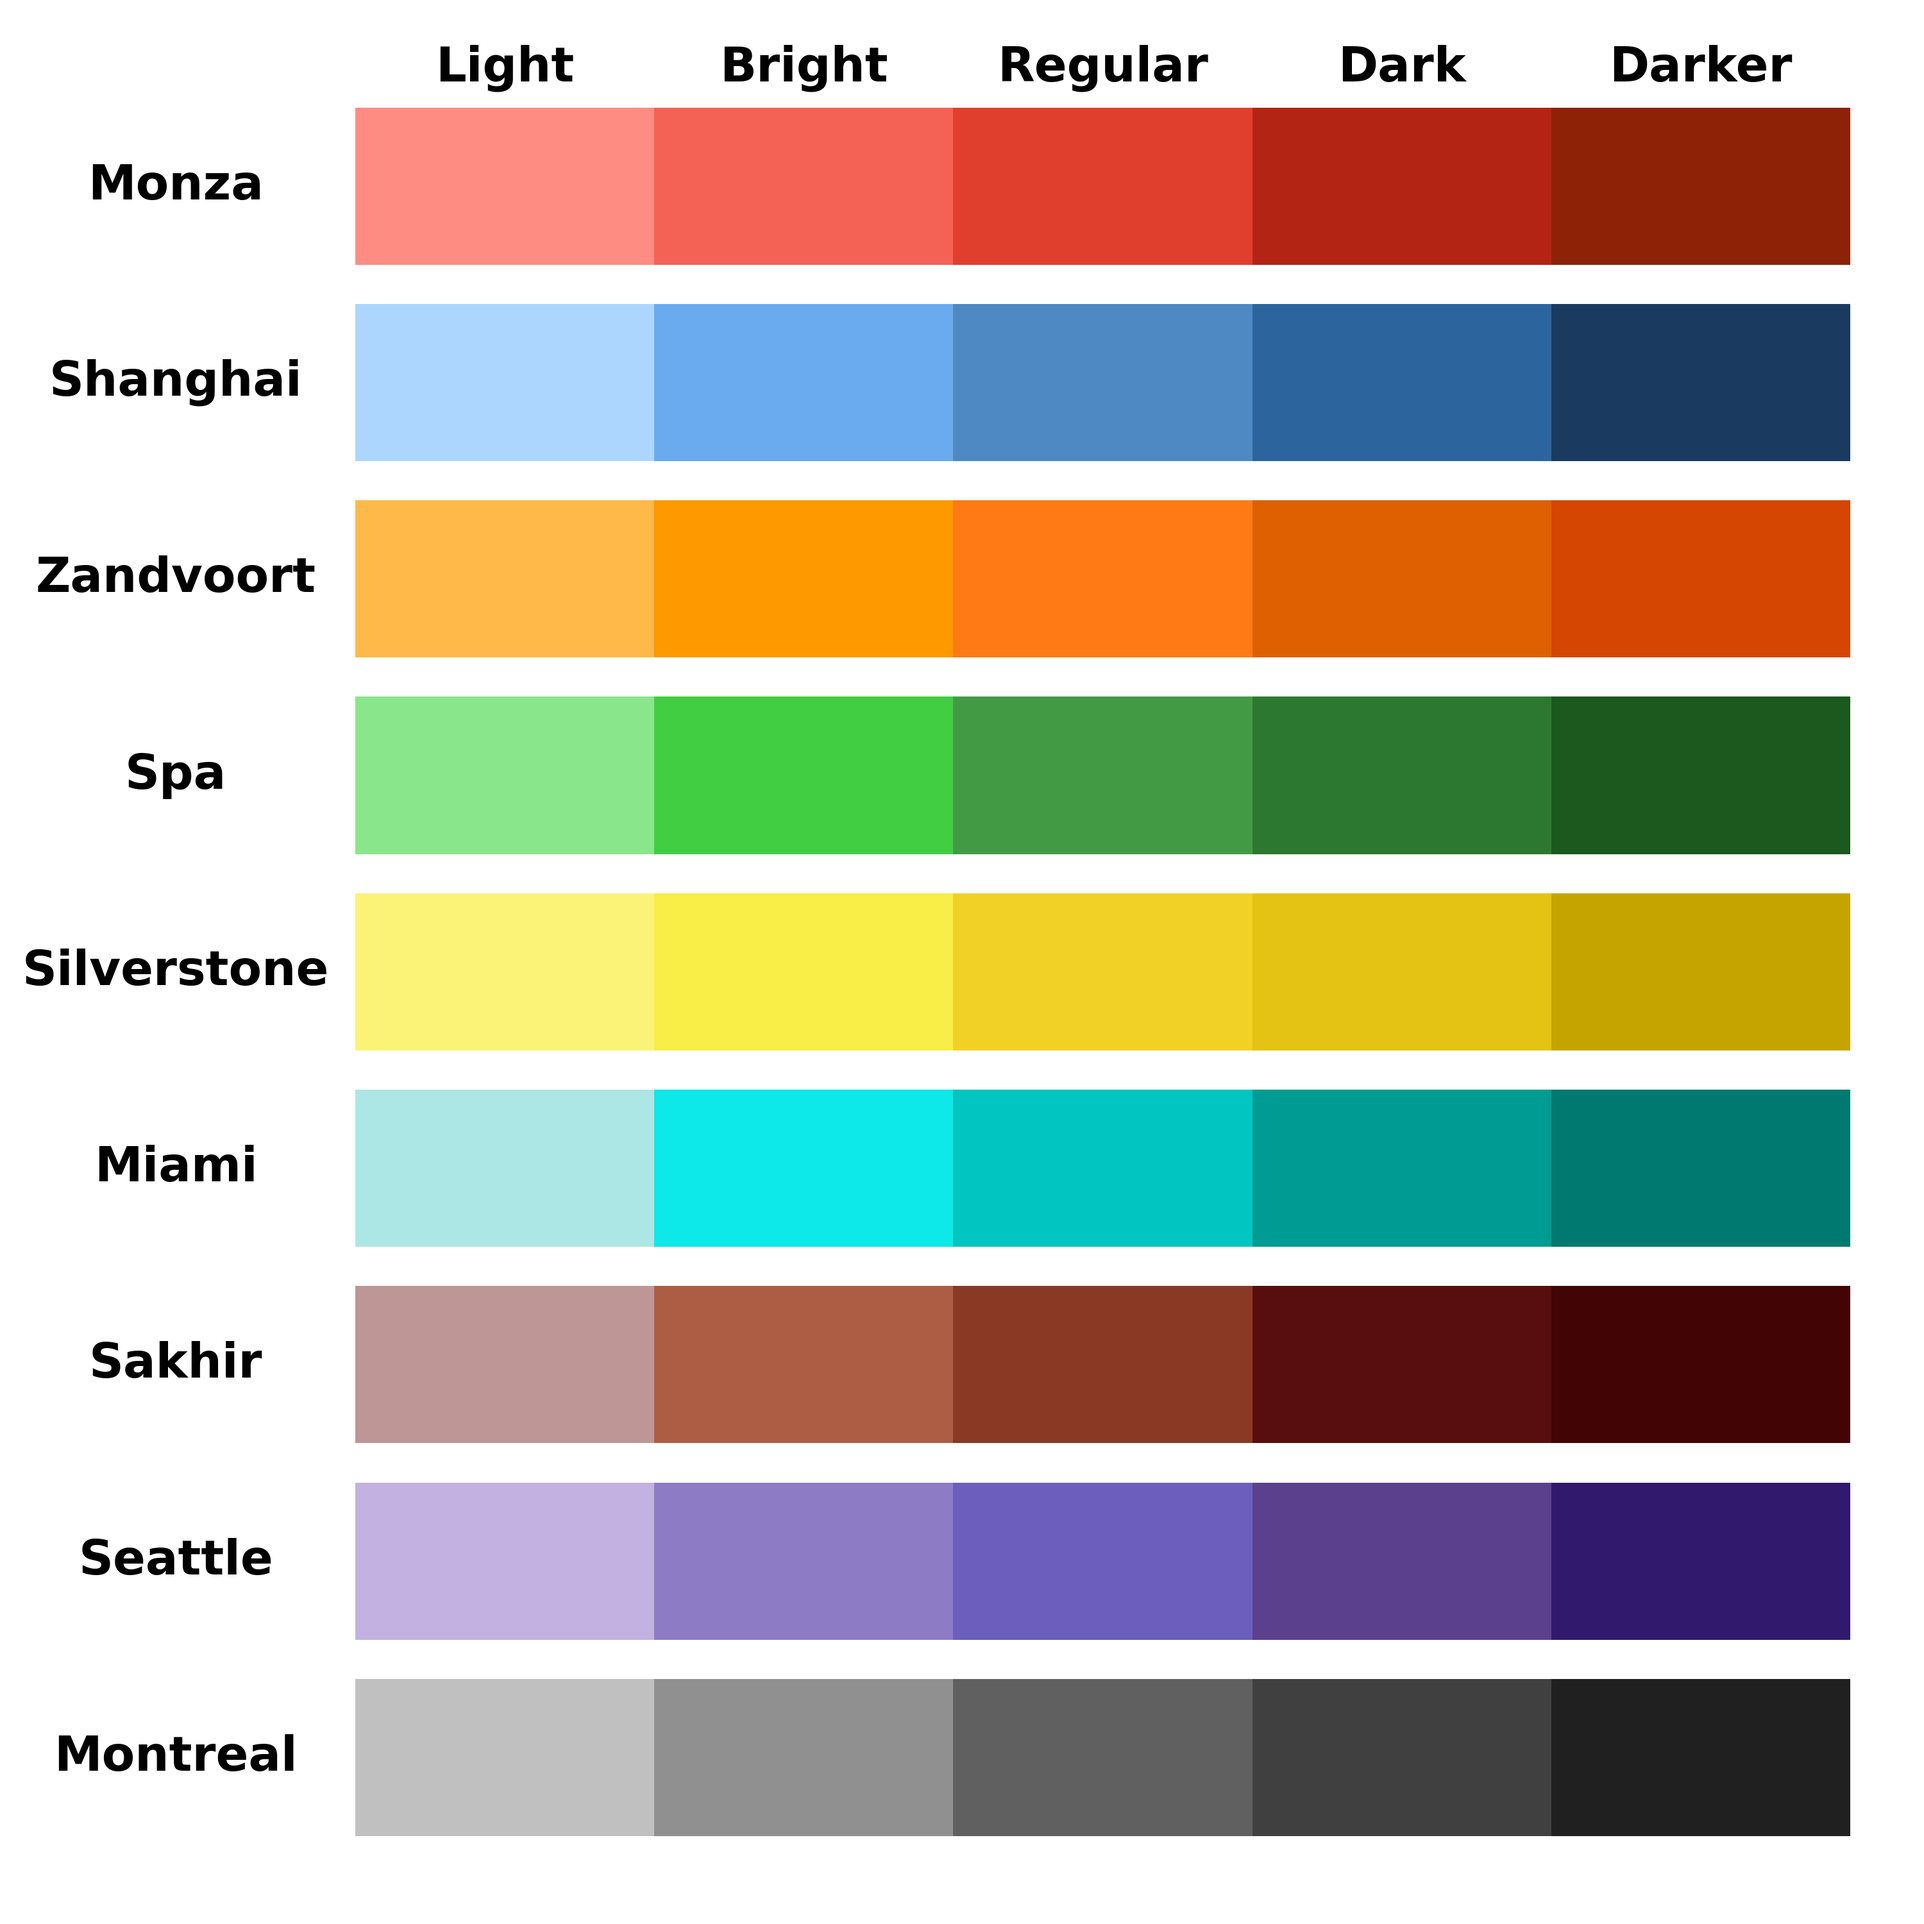
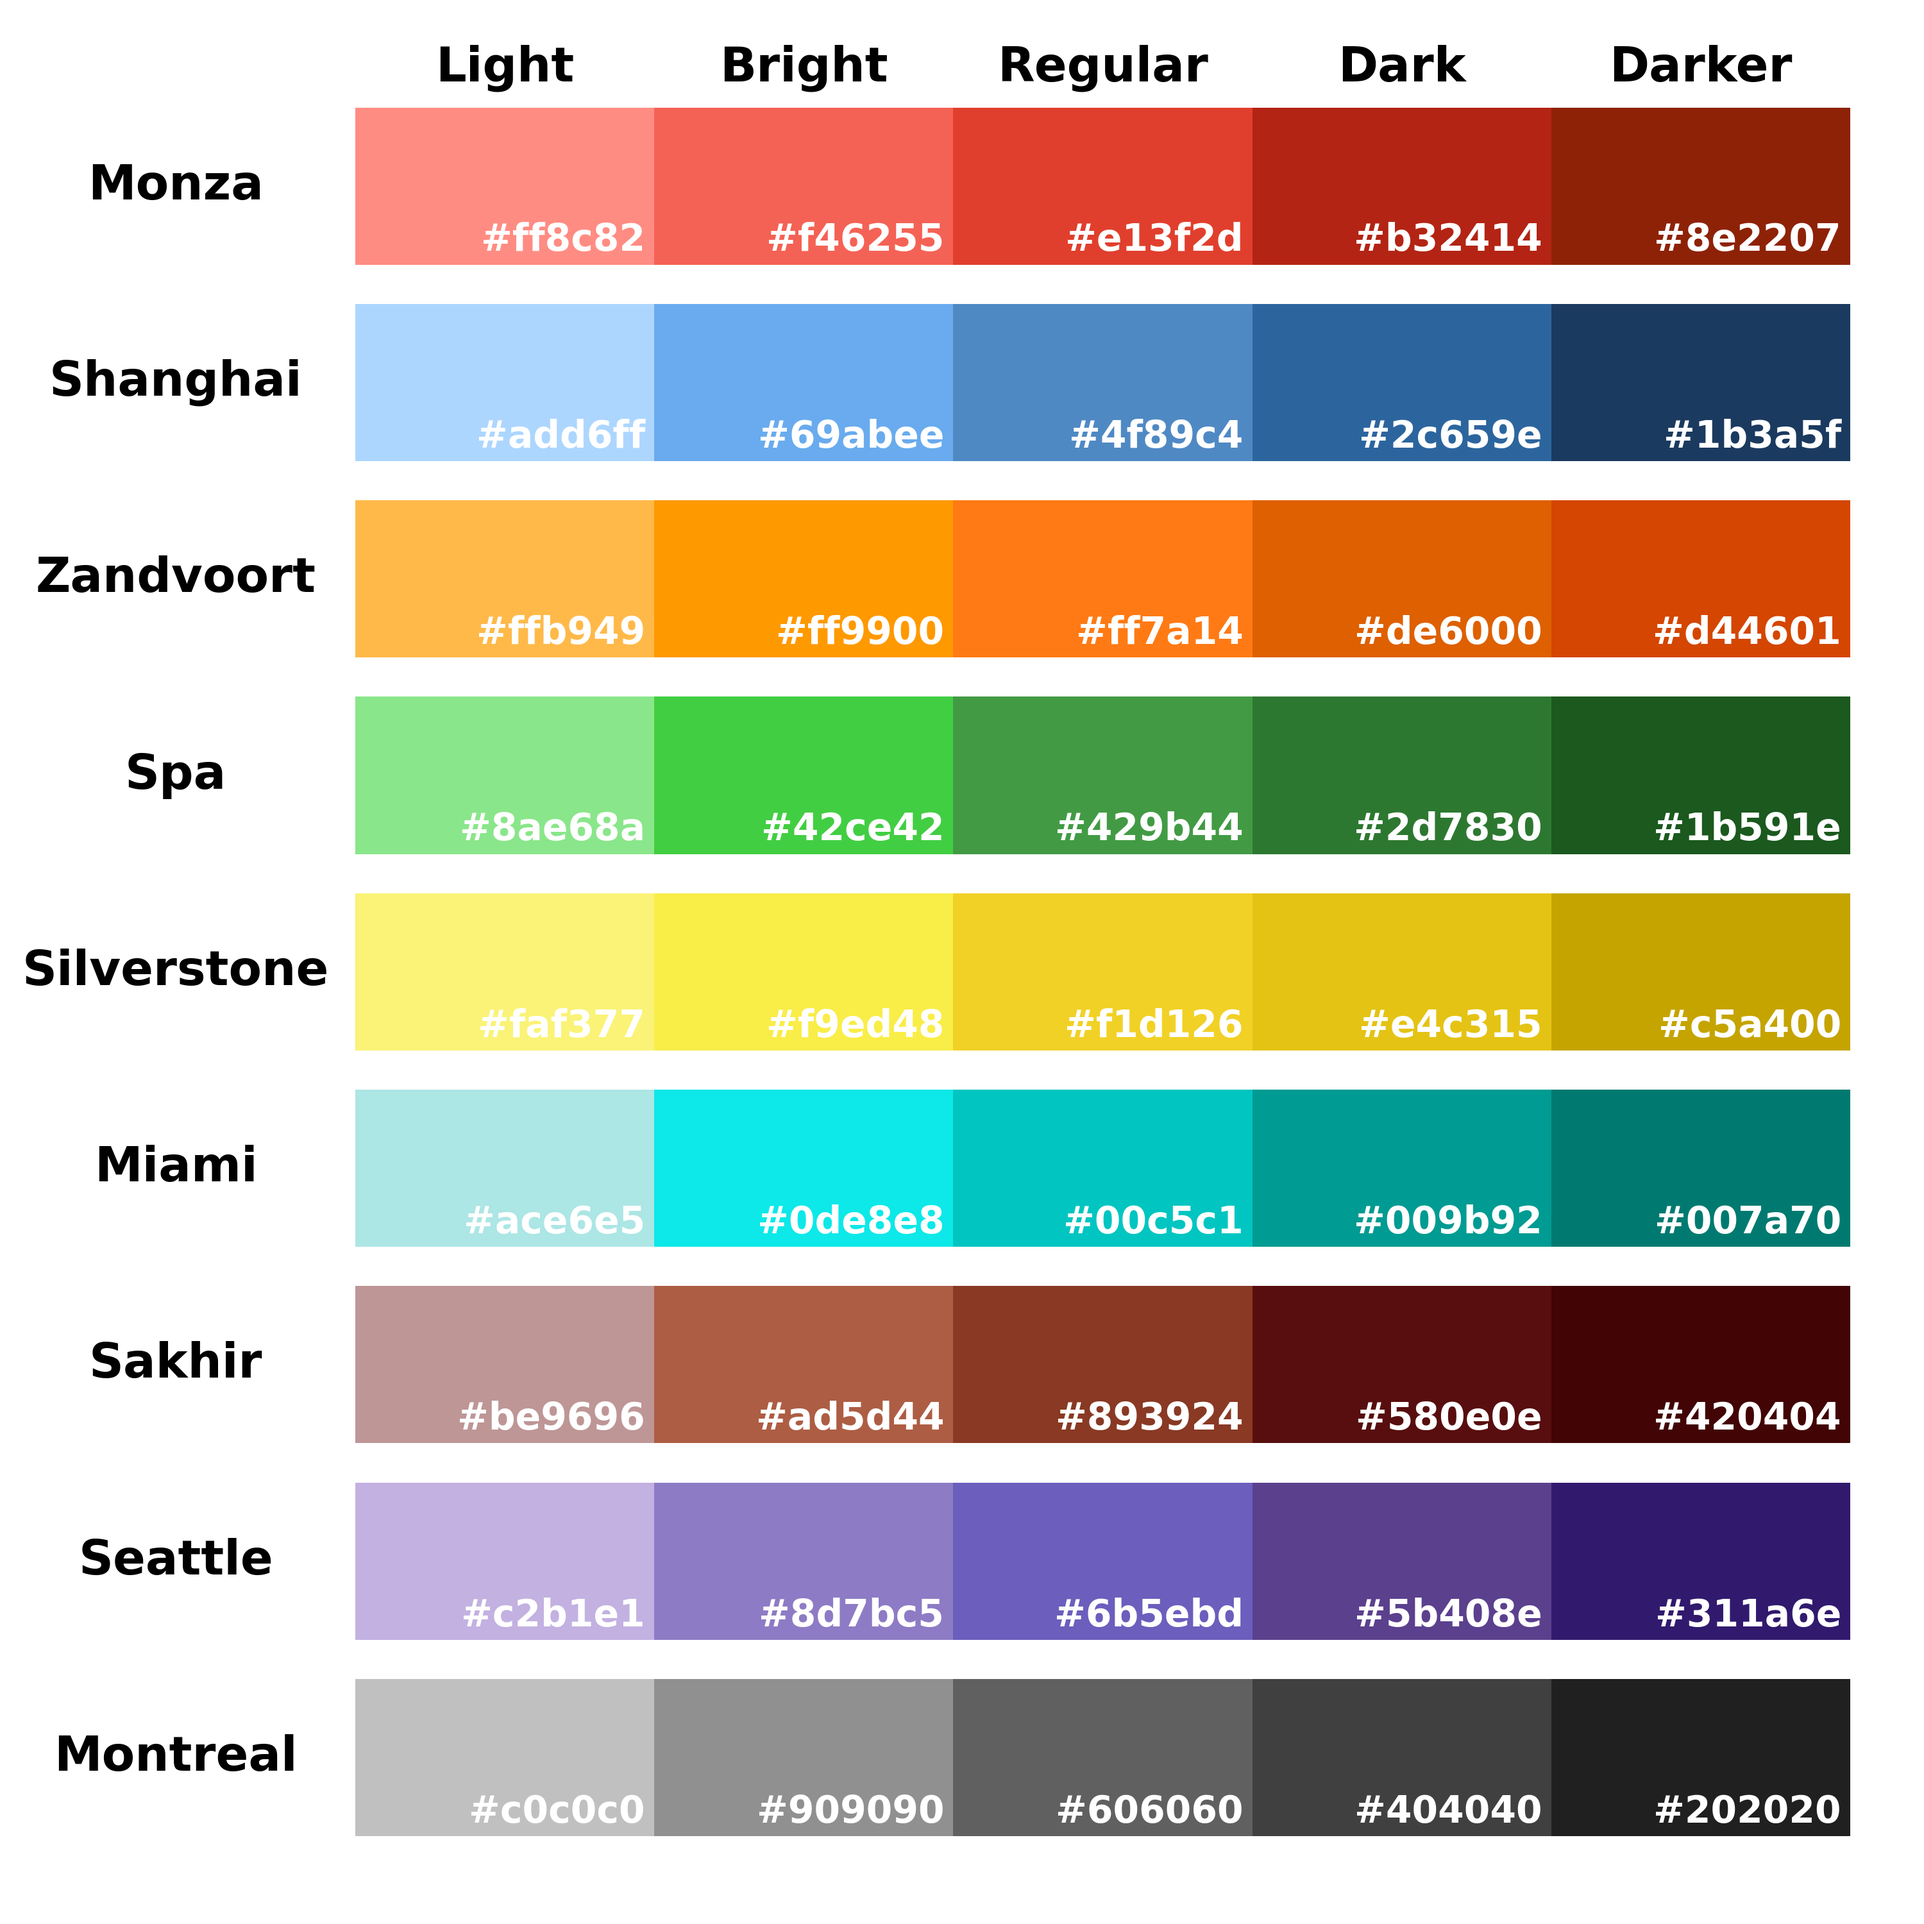
chore: update the figure for all colours with their values

diff --git a/scripts/draw_colour_samples.py b/scripts/draw_colour_samples.py
@@ -63,8 +63,12 @@ def draw_all_palette():
 
     def draw_one_colour(name, y_pos):
         for i, darkness in enumerate(palette_darkness):
-            ax.barh(y_pos, height, width, i,
-                    color=plotpalette.palette[f'{name}-{darkness}'], hatch='')
+            colour = plotpalette.palette[f'{name}-{darkness}']
+            bar = ax.barh(y_pos, height, width, i,
+                          color=colour, hatch='')
+            ax.text(i + 0.97, bar[0].get_y() + 0.03, colour,
+                    ha='right', va='bottom', color='white',
+                    fontsize=14, fontweight='bold')
     for i, name in enumerate(names):
         draw_one_colour(name, -i)
 
